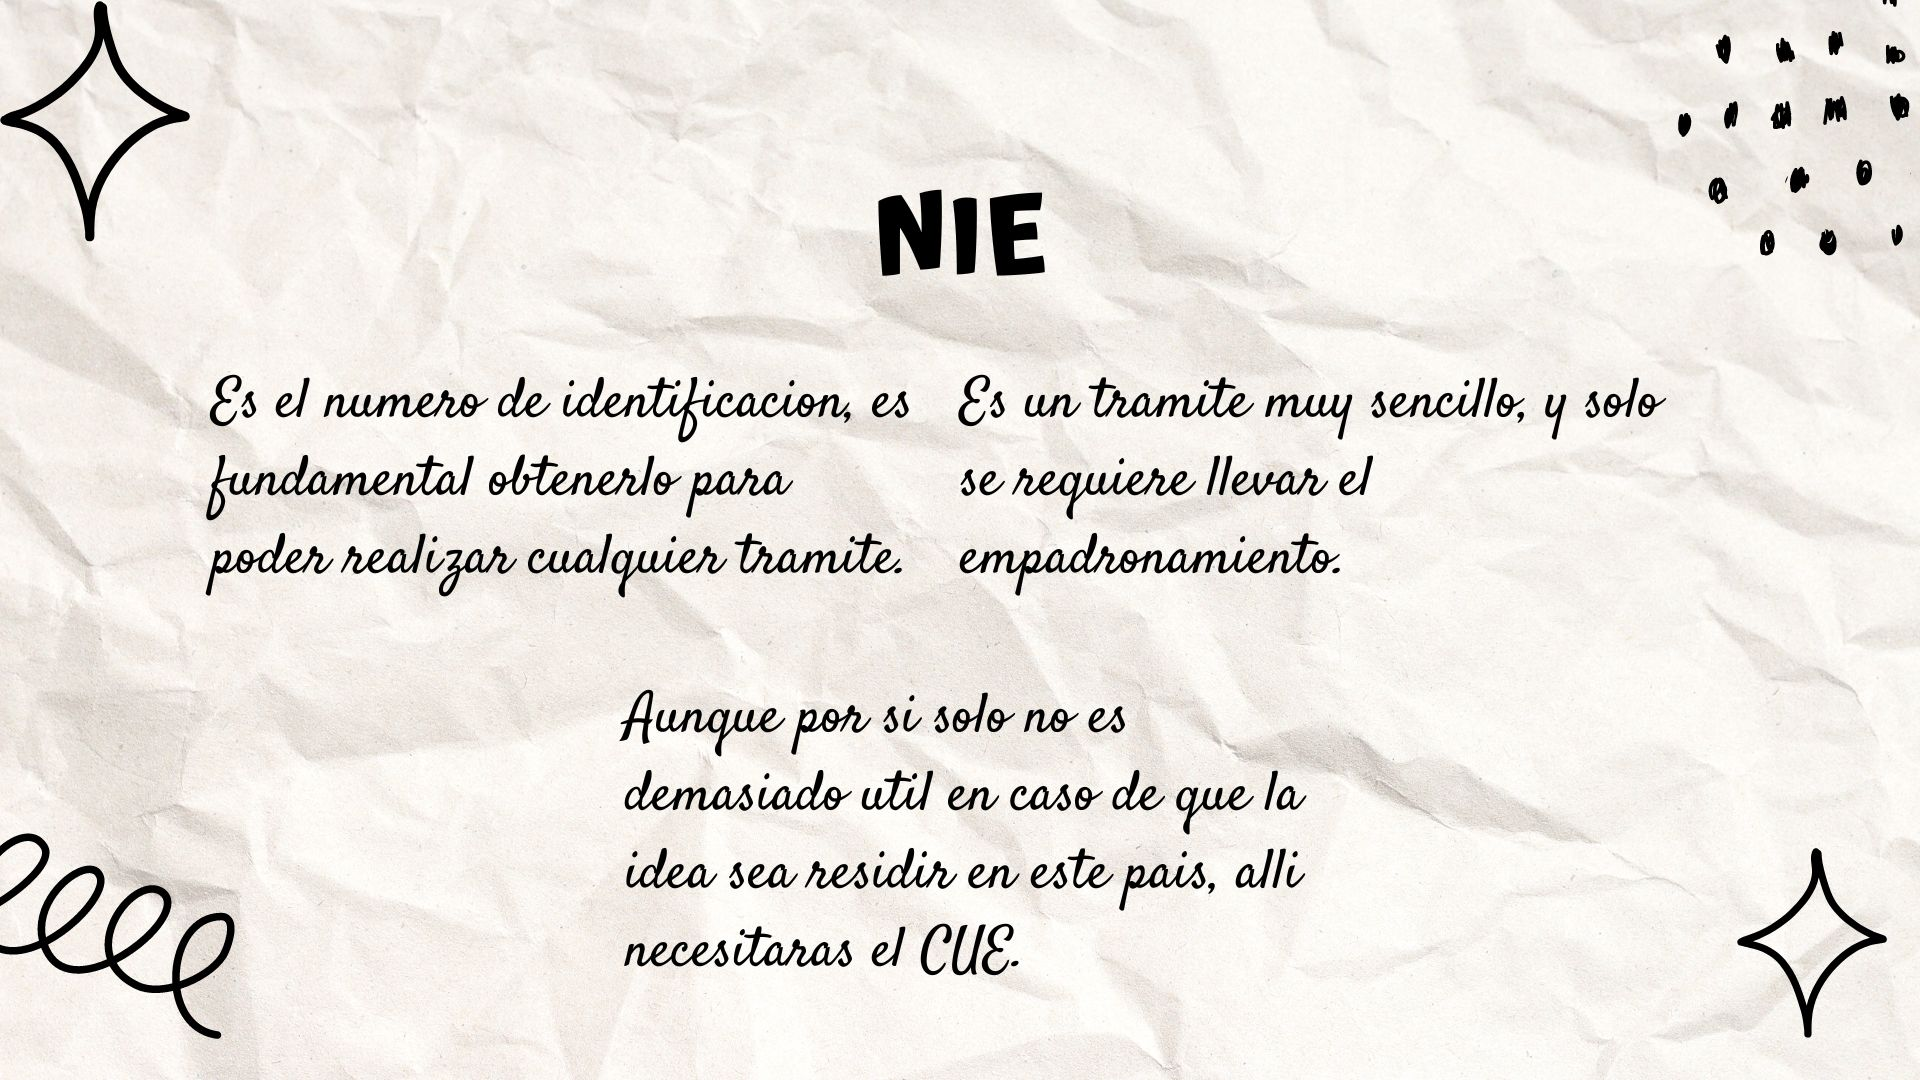
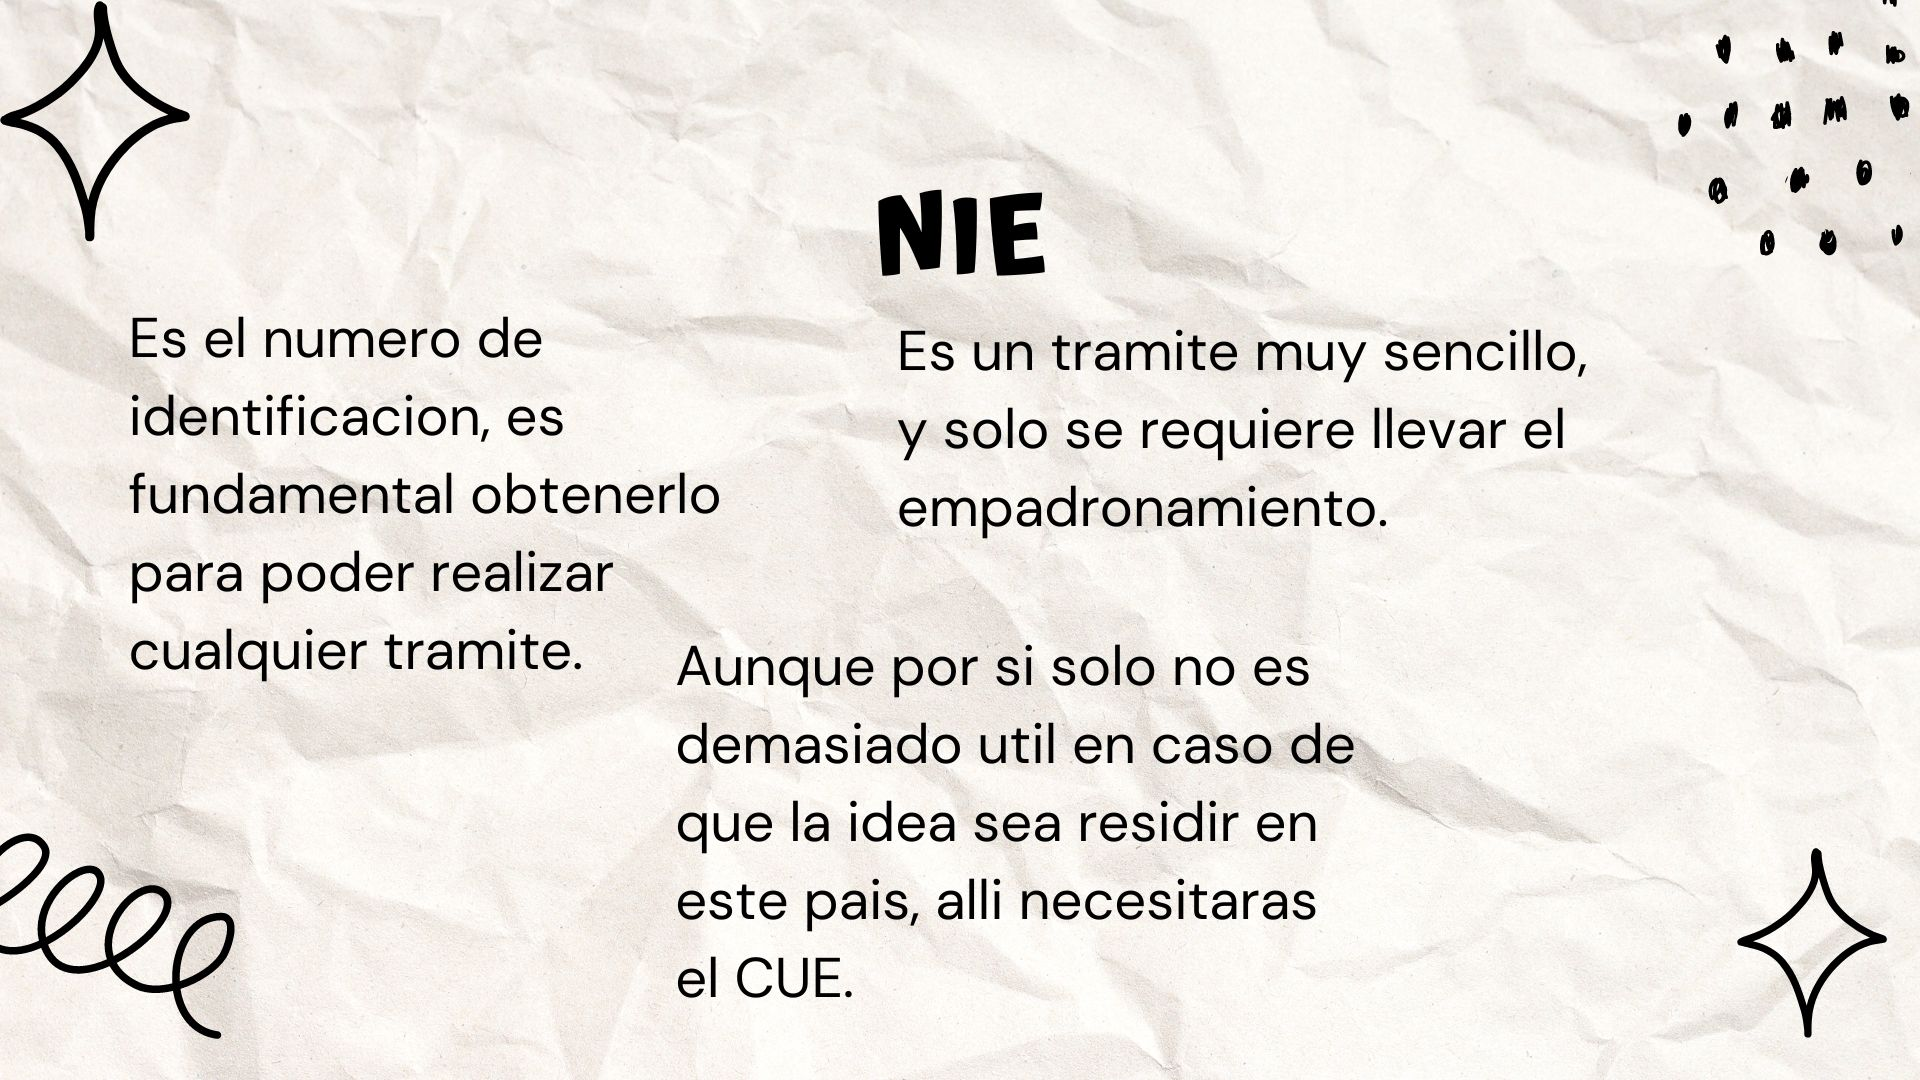
Se incorpora contenido a las distintas paginas

Changed region(s): [[0.0625, 0.3056, 0.875, 0.55], [0.3125, 0.6111, 0.7188, 0.9472], [0.0625, 0.5806, 0.3125, 0.6417]]

diff --git a/pages/guia-de-tramites.html b/pages/guia-de-tramites.html
@@ -53,7 +53,7 @@
         </nav>
     </header>
     <main>
-        <section class=" container-fluid row mx-auto mb-2" > <!-- PRIMER SECCION -->
+        <section class=" container row mx-auto mb-2" > <!-- PRIMER SECCION -->
             <article class=" col-xs-12 col-md-6">  <!-- tarjeta uno -->
                 <div class=" card" style="width: 35rem;">
                     <div id="carouseluno" class="carousel slide" data-bs-ride="true">
@@ -130,13 +130,13 @@
                         </div>
                         <div class="carousel-inner">
                             <div class="carousel-item active card-img-top">
-                                <img src="../resources/doc-1.jpg" class="d-block w-100" alt="...">
+                                <img src="../resources/canje-1.jpg" class="d-block w-100" alt="diapositiva canje de licencia uno">
                             </div>
                             <div class="carousel-item card-img-top">
-                                <img src="../resources/doc-2.jpg" class="d-block w-100" alt="...">
+                                <img src="../resources/canje-2.jpg" class="d-block w-100" alt="diapositiva canje de licencia dos">
                             </div>
                             <div class="carousel-item card-img-top">
-                                <img src="../resources/doc-3.jpg" class="d-block w-100" alt="...">
+                                <img src="../resources/canje-3.jpg" class="d-block w-100" alt="diapositiva canje de licencia tres">
                             </div>
                         </div>
                         <button class="carousel-control-prev" type="button" data-bs-target="#carouseltres" data-bs-slide="prev">
@@ -160,16 +160,20 @@
                             <button type="button" data-bs-target="#carouselcuatro" data-bs-slide-to="0" class="active" aria-current="true" aria-label="Slide 1"></button>
                             <button type="button" data-bs-target="#carouselcuatro" data-bs-slide-to="1" aria-label="Slide 2"></button>
                             <button type="button" data-bs-target="#carouselcuatro" data-bs-slide-to="2" aria-label="Slide 3"></button>
+                            <button type="button" data-bs-target="#carouselcuatro" data-bs-slide-to="3" aria-label="Slide 4"></button>
                         </div>
                         <div class="carousel-inner">
                             <div class="carousel-item active card-img-top">
-                                <img src="../resources/doc-1.jpg" class="d-block w-100" alt="...">
+                                <img src="../resources/empadronamiento-1.jpg" class="d-block w-100" alt="diapositiva empadronamiento uno">
                             </div>
                             <div class="carousel-item card-img-top">
-                                <img src="../resources/doc-2.jpg" class="d-block w-100" alt="...">
+                                <img src="../resources/empadronamiento-2.jpg" class="d-block w-100" alt="diapositiva empadronamiento dos">
                             </div>
                             <div class="carousel-item card-img-top">
-                                <img src="../resources/doc-3.jpg" class="d-block w-100" alt="...">
+                                <img src="../resources/empadronamiento-3.jpg" class="d-block w-100" alt="diapositiva empadronamiento tres">
+                            </div>
+                            <div class="carousel-item card-img-top">
+                                <img src="../resources/empadronamiento-4.jpg" class="d-block w-100" alt="diapositiva empadronamiento tres">
                             </div>
                         </div>
                         <button class="carousel-control-prev" type="button" data-bs-target="#carouselcuatro" data-bs-slide="prev">

diff --git a/index.html b/index.html
@@ -62,11 +62,12 @@
     <section class=" d-flex flex-column align-items-start mb-auto indexconteiner col-12">       <!-- segunda seccion -->
       <article class="introduction">  
         <h2>Bienvenidos</h2>
-        <p> Lorem ipsum dolor sit, amet consectetur adipisicing elit. Soluta molestiae, doloribus ad pariatur quia tempora nobis dolorum voluptates suscipit corrupti labore, quas minima officia eum unde architecto. Esse, quibusdam. Nesciunt.
-      Debitis quaerat eaque nemo nostrum autem totam possimus nisi, fugit aut doloremque tenetur, blanditiis dolores. At, necessitatibus in! Esse nam eligendi voluptatum possimus iure illo laboriosam quia est quas omnis!
-      Nisi ex illum distinctio iure, optio enim temporibus, necessitatibus nostrum commodi illo explicabo animi suscipit! Quidem porro eos repudiandae, consequatur, at velit voluptate nisi voluptas optio cum animi ducimus repellat?
-      Odit pariatur iusto provident eos nihil quaerat quidem id autem eius sint voluptates mollitia ipsam similique fugiat praesentium cupiditate, dolor tenetur. Cumque, iusto ullam. Dolorem quos perspiciatis natus voluptates aliquid?
-      Provident labore sint dicta exercitationem unde nulla velit beatae et debitis? Tenetur quo vel unde sint perferendis deleniti. Sed voluptate quibusdam veritatis cumque quaerat alias doloremque mollitia. Ea, reiciendis labore.</p>
+        <p> Esta pagina trata de ser una ayuda a todos aquellos que estan pensando en emigrar, proceso dificil desde todo punto de vista. Pero a mi entender, es preferible volver a intentarlo si las cosas no se dan como esperabamos a quedarse con la duda de lo que hubiera sucedido.
+          Salir de la zona de confort y adentrarte en la aventura. Pero mas alla de lo lindo que puede tener descubrir un nuevo lugar, como en este caso Alicante, la ciuidad elegida por mi, siempre es importante tomar los recaudos necesarios
+          y preparar toda la documentacion necesaria para que nuestro proceso migratorio sea lo mas sencillo posible. 
+          Ademas , el preparar las cosas con anticipacion te ayuda bajar la ansiedad que todo esto puede generar. 
+          Les dejo un poquito de historia de esta bella cidudad y algunos tips sobre los tramites.. asi mismo pueden dejarme todas las consultas que les surgan que les respondere intentando ayudarlos.
+        </p>
       </article>
     </section>
     <section class="col-12 p-2 d-flex  ">
